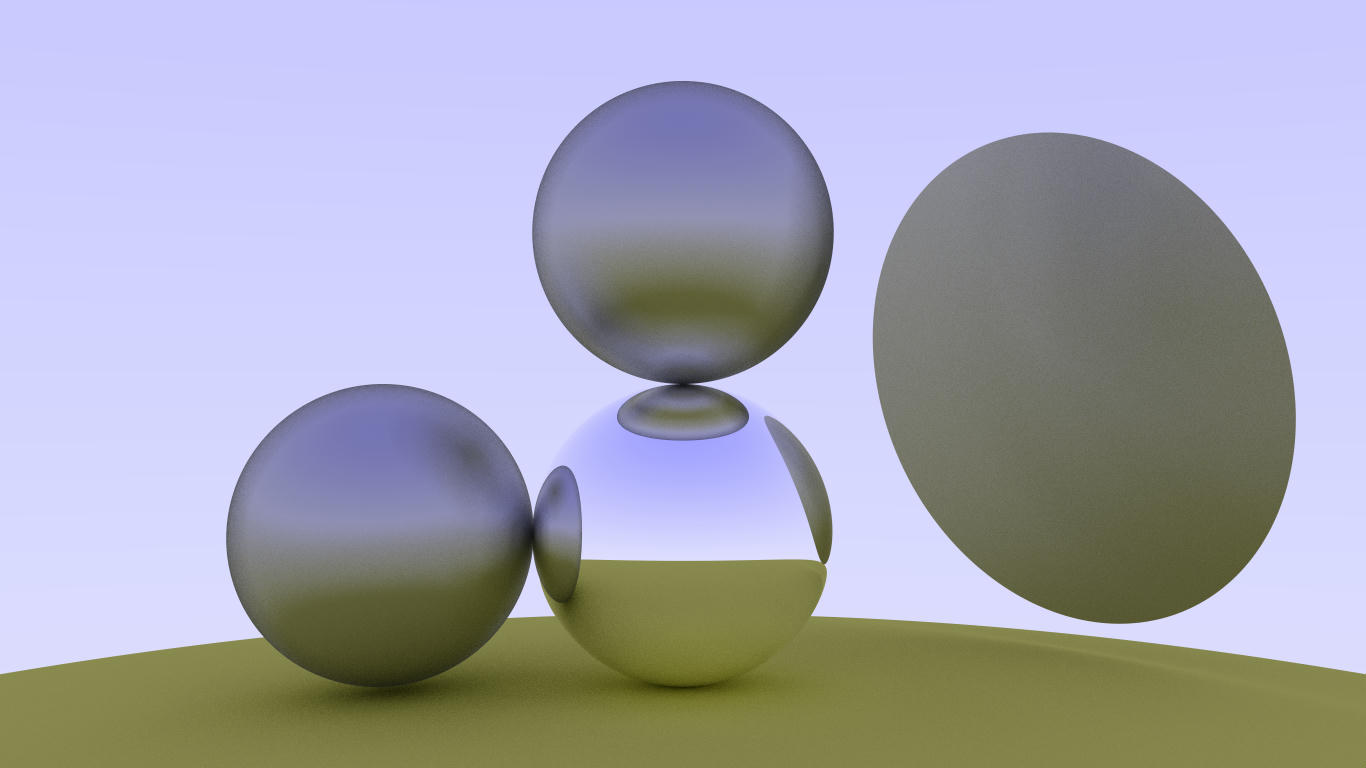
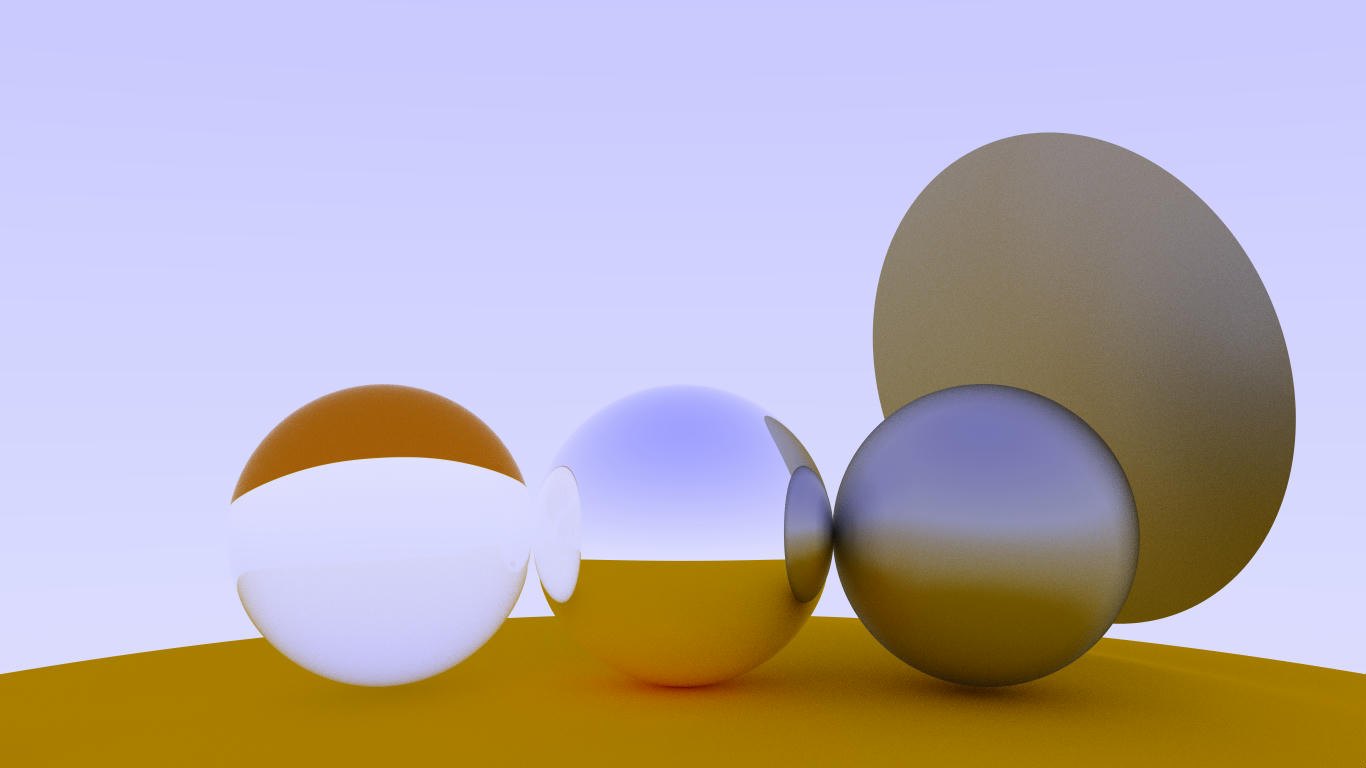
Added dielectrics

diff --git a/src/graphics/mod.rs b/src/graphics/mod.rs
@@ -115,12 +115,97 @@ impl Material for MetallicMaterial {
         .normalize();
 
         //Reflect
-        let new_dir =
-            ray_in.d - Vector3D::from(hit_info.normal) * (ray_in.d * hit_info.normal) * 2.0;
+        let new_dir =reflect(&ray_in,hit_info.get_normal());
         let scattered = new_dir + random_unit_vec * self.fuzziness;
-        (
+        return (
             Ray::new(hit_point.clone(), scattered.normalize()),
             self.albedo,
-        )
+        );
+    }
+}
+
+fn reflect(ray_in:&Ray,normal:&Normal3D)->Vector3D{
+    let ray_in_d=ray_in.d.normalize();
+    ray_in_d - Vector3D::from(normal) * (ray_in_d * Vector3D::from(normal)) * 2.0
+}
+
+fn refract1(ray_in:&Ray,normal:&Normal3D,refractive_index:f64)->Option<Vector3D>{
+    let ray_in_d=ray_in.d.normalize();
+    let discriminant=
+        1.0-refractive_index.powi(2)*(1.0-(normal*ray_in_d).powi(2));
+    if discriminant<0.0{
+        return None;
+    }else{
+        let discriminant_sqrt=discriminant.sqrt();
+        let normal_vec= Vector3D::from(normal);
+        /*let vec_out=
+            ray_in_d*refractive_index + normal_vec*discriminant_sqrt
+                - normal_vec*(normal_vec*ray_in_d)*refractive_index;*/
+        let vec_out=
+            (ray_in_d-Vector3D::from(normal*(normal*ray_in_d)))*refractive_index
+                + normal_vec*discriminant_sqrt;
+        //let vec_out=Vector3D::new(-vec_out.x(),-vec_out.y(),-vec_out.z());
+        Some(vec_out)
+    }
+}
+
+pub fn refract2(ray_in:&Ray,normal:&Normal3D,refractive_index:f64)->Option<Vector3D> {
+    //https://graphics.stanford.edu/courses/cs148-10-summer/docs/2006--degreve--reflection_refraction.pdf
+    let i = ray_in.d.normalize();
+    let n=Vector3D::from(normal);
+    let cosi=(i*n)*-1.0;
+    let sinsqr_t=refractive_index.powi(2)*(1.0-cosi.powi(2));
+    let discr=1.0-sinsqr_t.powi(2);
+    if discr<0.0{
+        None
+    }else{
+        let t=i*refractive_index+n*(refractive_index*cosi-discr.sqrt());
+        Some(t)
+    }
+}
+
+fn schlick_reflectivity(cosine:f64,refractive_index:f64)->f64{
+    let r0=((1.0-refractive_index)/(1.0+refractive_index)).powi(2);
+    r0+(1.0-r0)*((1.0-cosine).powi(5))
+}
+
+pub struct Dielectric{
+    refractive_index:f64,
+}
+
+impl Dielectric {
+    pub fn new(refractive_index: f64) -> Self {
+        Dielectric { refractive_index }
+    }
+}
+
+impl Material for Dielectric{
+    fn process(&self, ray_in: &Ray, hitinfo: &HitInfo) -> (Ray, RGBColor) {
+        let ray_in_d=ray_in.d.normalize();
+        let normal=hitinfo.get_normal();
+        let (surface_normal,refractive_index,cosine)=
+            if ray_in_d*Vector3D::from(normal)>0.0{
+                (normal*-1.0,self.refractive_index,
+                    self.refractive_index*(ray_in_d*Vector3D::from(normal)))
+            }else{
+                (normal.clone(),1.0/self.refractive_index,
+                 (ray_in_d*Vector3D::from(normal))*-1.0)
+            };
+
+        let attenuation=RGBColor::new(1.0,1.0,1.0);
+        let ray_out_d=
+            match refract2(&ray_in,&surface_normal,refractive_index){
+                Some(result)=>{
+                    let reflectivity=schlick_reflectivity(cosine,self.refractive_index);
+                    let mut rng = rand::thread_rng();
+                    if rng.gen_range(0.0,1.0)<reflectivity{
+                        reflect(&ray_in,&surface_normal)
+                    }else {
+                        result
+                    }
+                },
+                None=>{reflect(&ray_in,&surface_normal)}
+            };
+        (Ray::new(hitinfo.get_hitpoint().clone(),ray_out_d),attenuation)
     }
 }

diff --git a/src/graphics/data_structures.rs b/src/graphics/data_structures.rs
@@ -66,7 +66,11 @@ impl Normal3D {
     }
 
     pub fn normalize(&self) -> Normal3D {
-        let inverse = 1.0 / ((self.x * self.x + self.y * self.y + self.z * self.z).sqrt());
+        let dist_sqr=(self.x * self.x + self.y * self.y + self.z * self.z);
+        if dist_sqr>0.999999&&dist_sqr<1.000001{ //Already a normalized normal
+            return self.clone();
+        }
+        let inverse = 1.0 / (dist_sqr.sqrt());
         Normal3D {
             x: self.x * inverse,
             y: self.y * inverse,
@@ -107,6 +111,39 @@ impl Mul<Vector3D> for Normal3D {
     }
 }
 
+impl Mul<Vector3D> for &Normal3D {
+    type Output = f64;
+
+    fn mul(self, other: Vector3D) -> f64 {
+        self.x * other.x + self.y * other.y + self.z * other.z
+    }
+}
+
+//Scaling
+impl Mul<f64> for Normal3D {
+    type Output = Self;
+
+    fn mul(self, other: f64) -> Self {
+        Normal3D {
+            x: self.x * other,
+            y: self.y * other,
+            z: self.z * other,
+        }
+    }
+}
+
+impl Mul<f64> for &Normal3D {
+    type Output = Normal3D;
+
+    fn mul(self, other: f64) -> Normal3D {
+        Normal3D {
+            x: self.x * other,
+            y: self.y * other,
+            z: self.z * other,
+        }
+    }
+}
+
 impl From<Vector3D> for Normal3D {
     fn from(vec3: Vector3D) -> Self {
         Normal3D {
@@ -134,7 +171,11 @@ impl Vector3D {
     }
 
     pub fn normalize(&self) -> Vector3D {
-        let inverse = 1.0 / ((self.x * self.x + self.y * self.y + self.z * self.z).sqrt());
+        let dist_sqr=(self.x * self.x + self.y * self.y + self.z * self.z);
+        if dist_sqr>0.999999&&dist_sqr<1.000001{ //Already a normalized vector
+            return self.clone();
+        }
+        let inverse = 1.0 / (dist_sqr.sqrt());
         Vector3D {
             x: self.x * inverse,
             y: self.y * inverse,
@@ -239,14 +280,25 @@ impl Mul<Normal3D> for Vector3D {
 }
 
 impl From<Normal3D> for Vector3D {
-    fn from(vec3: Normal3D) -> Self {
+    fn from(norm: Normal3D) -> Self {
         Vector3D {
-            x: vec3.x,
-            y: vec3.y,
-            z: vec3.z,
+            x: norm.x,
+            y: norm.y,
+            z: norm.z,
         }
     }
 }
+
+impl From<&Normal3D> for Vector3D {
+    fn from(norm: &Normal3D) -> Self {
+        Vector3D {
+            x: norm.x,
+            y: norm.y,
+            z: norm.z,
+        }
+    }
+}
+
 
 #[derive(Debug, Copy, Clone)]
 pub struct RGBColor {

diff --git a/src/main.rs b/src/main.rs
@@ -10,6 +10,10 @@ use std::sync::mpsc::Sender;
 use std::any::Any;
 
 fn main() {
+    println!("{:?}",refract2(
+        &Ray::new(Point3D::origin(),Vector3D::new(-1.0/2.0f64.sqrt(),1.0/2.0f64.sqrt(),0.0)),
+                &Normal3D::new(-1.0,0.0,0.0),1.3
+    ));
     let (sender, recv) = std::sync::mpsc::channel();
     let (hres, vres, s,samples) = (1366, 768, 1.0 / 300.0,169);
     let sender_clone = sender.clone();
@@ -38,7 +42,7 @@ fn main() {
             },
             PixelInfo::SampleComplete(samples_rendered)=>{
                 println!("Samples rendered: {} ",samples_rendered);
-                img.save(format!("./img.jpeg")).unwrap();
+                img.save(format!("./img2.jpeg")).unwrap();
 
             },
             PixelInfo::End=>{
@@ -53,20 +57,23 @@ fn setup_and_run(sender: Sender<(PixelInfo)>,hres:u32,vres:u32,s:f64,samples:u32
     let metallic1 = MetallicMaterial::new(RGBColor::new(0.5, 0.5, 0.5), 0.5);
     let metallic2 = MetallicMaterial::new(RGBColor::new(1.0, 1.0, 1.0), 0.0);
     let diffuse1 = LambertianMaterial::new(RGBColor::new(0.3, 0.2, 0.6));
-    let diffuse2 = LambertianMaterial::new(RGBColor::new(0.6, 0.6, 0.1));
+    let diffuse2 = LambertianMaterial::new(RGBColor::new(0.9, 0.5, 0.0));
+    let dielectric1=Dielectric::new(1.33);
 
-    let sphere = Sphere::new(Point3D::new(-2.0, -1.0, 0.0), 1.0, &metallic1);
-    let sphere2 = Sphere::new(Point3D::new(0.0, 1.0, -0.0), 1.0, &metallic1);
+
+    let sphere = Sphere::new(Point3D::new(-2.0, -1.0, 0.0), 1.0, &dielectric1);
+    let sphere2 = Sphere::new(Point3D::new(2.0, -1.0, 0.0), 1.0, &metallic1);
     let sphere3 = Sphere::new(Point3D::new(-0.0, -1.0, 0.0), 1.0, &metallic2);
     let sphere4 = Sphere::new(Point3D::new(0.0, -42.0, 0.0), 40.0, &diffuse2);
     let disc = ThinDisc::new(
         Point3D::new(3.0, 0.0, -2.0),
         2.0,
         Normal3D::new(-1.0, -0.3, 0.8),
+        //Normal3D::new(0.0,0.0,1.0),
         &metallic1,
     );
     let plane = Plane::new(
-        Point3D::new(0.0, -2.0, 0.0),
+        Point3D::new(0.0, 2.0, 0.0),
         Normal3D::new(0.0, 1.0, 0.0),
         &metallic2,
     );
